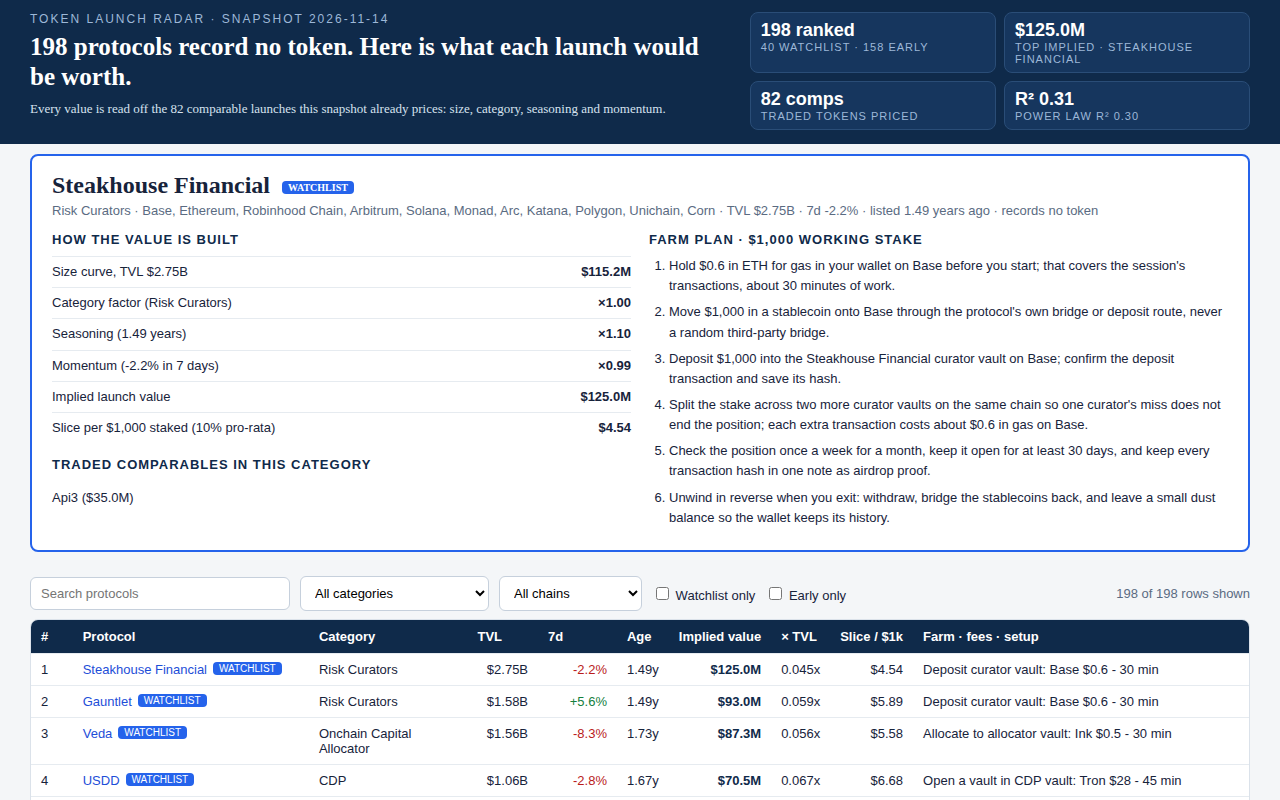
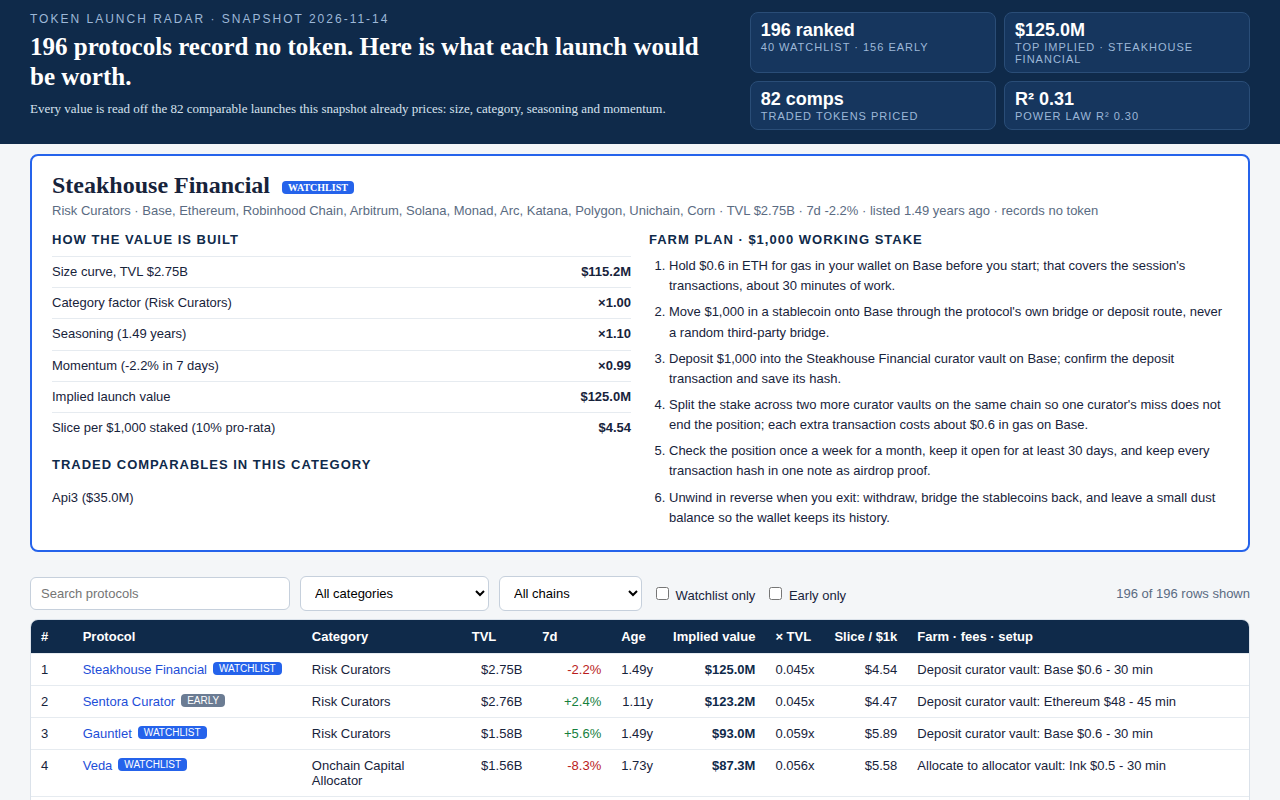
round 2: strict triple-null pre-token board, 45 token-product rows replaced

diff --git a/dashboard/app.js b/dashboard/app.js
@@ -166,7 +166,7 @@
     'comparable (Api3); Onchain Capital Allocator has one in the fit set (Concrete). A single token cannot set a category factor, so both ' +
     'carry a factor of 1.00 and their values come from the size curve, seasoning and momentum alone. That is the board&rsquo;s widest ' +
     'uncertainty, and it is why Steakhouse Financial and Veda sit where the curve puts them rather than where one precedent would.</p>' +
-    '<h3>The watchlist is a floor</h3><p>The watchlist names 40 protocols and the board holds 198 rows: the watchlist is a floor, never a ceiling, and a board may rank protocols the watchlist does not name. Above the floor, a protocol joins the board only when its record carries no token at all — no market cap, no CoinGecko id, no symbol. Sentora Curator is the largest such name the watchlist leaves out, a Risk Curators protocol with $2.76B of TVL. Morpho Blue is left out on the same line: $10.41B of TVL, but its record carries the symbol MORPHO, so its token already trades. Circle Gateway and USDCx are left out too, a cross-chain bridge and a wrapped stablecoin — neither is a launch.</p>' +
+    '<h3>The watchlist is a floor</h3><p>The watchlist names 40 protocols and the board holds 196 rows: the watchlist is a floor, never a ceiling, and a board may rank protocols the watchlist does not name. Above the floor, a protocol joins the board only when its record carries no token at all — no market cap, no CoinGecko id, no symbol. Sentora Curator is the largest such name the watchlist leaves out, a Risk Curators protocol with $2.76B of TVL. Morpho Blue is left out on the same line: $10.41B of TVL, but its record carries the symbol MORPHO, so its token already trades. Circle Gateway and USDCx are left out too, a cross-chain bridge and a wrapped stablecoin — neither is a launch. The same triple-null test applies below the floor as above it: every row on this board records no market cap, no CoinGecko id and no symbol. An earlier build tested market cap alone below the floor and let 45 token-product rows through; they are out, replaced by the 43 strict pre-token rows the snapshot holds below them by TVL — which is why the board holds 196 rows and not 198: the strict pool, 40 watchlist names plus 156 strict names outside it, is exhausted at 196, and no token row is kept to fill it. Saturn stays on the board because the house watchlist names it and the watchlist is taken whole, while Circle Gateway and USDCx stay out under the same bridge and wrapper tightening.</p>' +
     '<h3>What the board does not claim</h3><ul><li>It does not predict whether or when any protocol issues a token — only what the token would be worth if the protocol&rsquo;s record stayed as it is.</li>' +
     '<li>It does not rank exchange chains, bridges or wrapped products as launches: they record no token only because their token already trades under another name.</li>' +
     '<li>Gas fees are snapshot-date estimates per chain; the farm column names the action, the chain, the fee and the setup time for a $1,000 stake.</li></ul>';

diff --git a/lib/model.ts b/lib/model.ts
@@ -355,8 +355,14 @@ export function selectBoard(snapshot: Snapshot, size: number): SnapshotProtocol[
     .filter(recordsNoToken)
     .filter(passesProductFilters)
     .sort((a, b) => b.tvl_usd - a.tvl_usd);
+  // Below the floor the pre-token test is the same triple-null test as
+  // above it — no market cap, no CoinGecko id, no symbol. A null market
+  // cap alone lets token products through: a record can carry a symbol
+  // for a token that trades while recording no market cap for it, and
+  // 45 such rows reached the board on that single-null test. They are
+  // replaced here by the strict pre-token rows below them by TVL.
   const early = snapshot.protocols
-    .filter((p) => p.mcap_usd === null)
+    .filter(recordsNoToken)
     .filter((p) => p.tvl_usd < snapshot.floor_usd)
     .filter((p) => !snapshot.watchlist.includes(p.slug))
     .filter(passesProductFilters)

diff --git a/dashboard/index.html b/dashboard/index.html
@@ -2,7 +2,7 @@
 <html lang="en">
 <head>
 <meta charset="utf-8">
-<title>Token Launch Radar — 198 pre-token protocols priced off 82 comparable launches</title>
+<title>Token Launch Radar — 196 pre-token protocols priced off 82 comparable launches</title>
 <link rel="stylesheet" href="app.css">
 </head>
 <body>
@@ -10,7 +10,7 @@
   <div class="masthead-inner">
     <div>
       <p class="kicker">TOKEN LAUNCH RADAR &middot; SNAPSHOT <span id="as-of"></span></p>
-      <h1>198 protocols record no token. Here is what each launch would be worth.</h1>
+      <h1>196 protocols record no token. Here is what each launch would be worth.</h1>
       <p class="lede">Every value is read off the 82 comparable launches this snapshot already prices: size, category, seasoning and momentum.</p>
     </div>
     <div class="hero-stats" id="hero-stats"></div>

diff --git a/main.ts b/main.ts
@@ -28,7 +28,7 @@ import {
 } from "./lib/model.ts";
 import type { Snapshot, SnapshotProtocol } from "./lib/model.ts";
 
-const TITLE = "Token Launch Radar — 198 pre-token protocols priced off 82 comparable launches";
+const TITLE = "Token Launch Radar — 196 pre-token protocols priced off 82 comparable launches";
 
 function argValue(argv: string[], flag: string): string | null {
   const at = argv.indexOf(flag);

diff --git a/README.md b/README.md
@@ -1,6 +1,6 @@
 # Token Launch Radar — round two
 
-198 pre-token protocols priced off 82 comparable launches, from the sealed
+196 pre-token protocols priced off 82 comparable launches, from the sealed
 snapshot alone. MIT licensed.
 
 ## The model
@@ -31,9 +31,19 @@ of comparables land within ×0.36–×2.78 of the fitted curve in-sample.
 ## The board
 
 The whole 40-protocol watchlist, plus the 18 pre-token protocols above
-the $50M floor that pass the watchlist's own rule, plus the 140 largest
+the $50M floor that pass the watchlist's own rule, plus the 138 largest
 pre-token protocols below the floor that pass the watchlist's own product
-filters. The watchlist is a floor, never a ceiling: Sentora Curator is
+filters. Pre-token means the kit's triple-null test, applied above the
+floor and below it alike: no market cap, no CoinGecko id, no symbol. An
+earlier build tested market cap alone below the floor and let 45
+token-product rows through; they are out, replaced by the 43 strict
+pre-token rows the snapshot holds below them by TVL. That is why the
+board holds 196 rows, not 198: the strict pool — 40 watchlist names plus
+156 strict names outside it — is exhausted at 196, and no token row is
+kept to fill it. Saturn stays on the board because the house watchlist
+names it and the watchlist is taken whole, while Circle Gateway and
+USDCx stay out under the same bridge and wrapper tightening. The
+watchlist is a floor, never a ceiling: Sentora Curator is
 the largest name it leaves out, $2.76B of TVL in Risk Curators, and the
 model prices its launch at $123.2M, second on the board. Morpho Blue is
 left out on the same line: $10.41B of TVL, but its record carries symbol
